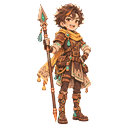
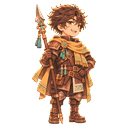
feat: トーリのユニットの絵を、肖像を見本にして作り直したものに置き換える（DES-NG-08）
128×128 の透過 PNG。台帳の行を作り直し（添付した画像と指示文を記録）。

Claude-Session: https://claude.ai/code/session_01Gwc8HGbd5fkwvE2Ki4XAgt

Changed region(s): [[0.25, 0.0, 0.75, 0.9688]]

diff --git a/data/alchemy/media/ASSETS.md b/data/alchemy/media/ASSETS.md
@@ -45,6 +45,6 @@
 | `art/portraits/aoi.png` | AI 生成（ChatGPT。元の 1254×1254 の画像を、512×512 の PNG に縮小しただけで、ほかの加工はしていない） | ChatGPT（GPT-6、チャットモード）、2026-11-13 | 「2D hand-drawn illustration, flat colors with at most two shading tones, clean medium-weight outlines, slightly desaturated palette with amber/copper and aqua-teal as the only vivid accents, fantasy ancient stone city setting, no text, no letters, no watermark. Bust-up portrait, 3/4 view, calm and gentle expression, soft warm rim light, plain flat light-gray background, square 1:1. A slender young woman around 20 years old, average height for her age, herbalist-alchemist wearing a long cream-colored coat with copper buckles, carrying a large leather backpack full of glass vials and copper tubes, an old handwritten recipe book tucked under the arm, geometric symbol embroidery on the sleeve, short practical hair, amber accent.」（全文。改行は空白に置き換えた。**絵柄のブロックは、この生成のあとに方針書で書き換えた**ので、今の方針書の指示文とは違う）。眼鏡・髪の編み込み・イヤリング・ペンダント・巻物・薬草などは、指示になく、生成側が足したもの。調合帳は、脇に挟まず手に持っている | ChatGPT（OpenAI）の利用規約とコンテンツポリシーを、開発者が確認した。**確認した条項の番号と版は、まだ記録していない（開発者が追記する）** | 2026-11-13 | 開発者 |
 | `art/units/aoi.png` | AI 生成（ChatGPT）。元の 1254×1254 の画像（背景は緑）を、緑の背景を透過にし、人物の範囲で切り出して正方形に整え、128×128 の PNG に縮小した。処理の概略: ① クロマキー（緑らしさ k = G − max(R,B) が 70 以下は不透明、170 以上は透明、その間は直線で α を決める）、② 緑かぶりの除去（α が 1 未満の画素と、透明に近い縁の帯（元の画像で 6 px 以内）では、G を max(R,B) に揃える。髪の橙・服の青緑・薬草の緑は G が max(R,B) を超えないか、縁の外なので変わらない）、③ α > 0.04 の範囲で切り出して 6% の余白を足し、足元をそろえて正方形にする、④ 乗算済みアルファで縮小（Lanczos）、⑤ 縮小のあと、半透明の画素の G を max(R,B) に揃え、それでも k が 8 以上残る α 64 以下の画素は α を 0 にする。仕上がりは、G ≧ 180 かつ G − max(R,B) ≧ 60 の半透明の画素が 0 個（前回は 38 個） | ChatGPT（GPT-6、チャットモード）、2026-11-13。加工は Python（Pillow・NumPy）の使い捨てのスクリプト | 「2D hand-drawn anime-style illustration, soft cel shading with subtle texture, clean thin-to-medium outlines, slightly desaturated palette with amber/copper and aqua-teal as the only vivid accents, fantasy ancient stone city setting, no text, no letters, no watermark. Full-body chibi character, 2.5 heads tall, front three-quarter view, standing pose, centered, entire body visible with margin on all sides, plain flat solid bright-green background (for cutting out), square 1:1. A slender young woman around 20 years old, herbalist-alchemist wearing a long cream-colored coat with copper buckles, a large leather backpack full of glass vials and copper tubes (looks big against her slim frame), short practical hair, amber accent.」（全文。改行は空白に置き換えた）。眼鏡・髪の編み込み・イヤリング・ペンダント・巻物・薬草・腰の小さな鞄・足元の革のブーツなどは、指示になく、生成側が足したもの。同じ人物の肖像（`art/portraits/aoi.png`）とは、別の生成 | ChatGPT（OpenAI）の利用規約とコンテンツポリシーを、開発者が確認した。**確認した条項の番号と版は、まだ記録していない（開発者が追記する）** | 2026-11-13 | 開発者 |
 | `art/units/dain.png` | AI 生成（ChatGPT）。元の 1254×1254 の画像（背景は緑）を、緑の背景を透過にし（クロマキー。縁の緑かぶりを除去）、人物の範囲で切り出して正方形に整え、128×128 の PNG に縮小した（ほかの全身の絵と同じ処理） | ChatGPT（GPT-6、チャットモード）、2026-11-13。加工は Python（Pillow・NumPy）の使い捨てのスクリプト | 「Use the first attached image as a style reference: match its art style, line weight, shading, color treatment and chibi proportions. The second attached image shows the same character in a portrait: keep exactly the same face, hair, outfit, colors and accessories, and redraw the character as a full-body chibi following the first image's proportions. 2D hand-drawn anime-style illustration, soft cel shading with subtle texture, clean thin-to-medium outlines, slightly desaturated palette with amber/copper and aqua-teal as the only vivid accents, fantasy ancient stone city setting, no text, no letters, no watermark. Full-body chibi character, 2.5 heads tall, front three-quarter view, standing pose, centered, entire body visible with margin on all sides, plain flat solid bright-green background (for cutting out), square 1:1. a broad-shouldered, sturdy man in his late 30s with a calm, dependable expression, short cropped hair and a light beard, wearing heavy iron-gray plate armor with an indigo cloth sash, copper rivets and buckles, holding a large tower shield and a spear.」（`docs/01_concept/new-game-prompts.md` の「ダイン — ユニットの絵」の組み立て済みの指示文の全文。改行は空白に置き換えた。生成のとき、①アオイの全身の絵（絵柄の見本）、②ダインの肖像 `art/portraits/dain.png`（人物の見本）を添付した。**生成時に指示文を変えていないかは、開発者に確認中**）。頬の傷・胸の花の留め具と房飾り・盾の街と柱廊の模様・鎧の肩の模様・マントの裾の模様などは、指示になく、生成側が足したもの（肖像から引き継いだ）。先に置いていた、肖像を見本にしない版の全身の絵は、この絵に置き換えた | ChatGPT（OpenAI）の利用規約とコンテンツポリシーを、開発者が確認した（アオイの絵と同じ）。**確認した条項の番号と版は、まだ記録していない（開発者が追記する）** | 2026-11-13 | 開発者 |
-| `art/units/tori.png` | AI 生成（ChatGPT）。元の 1254×1254 の画像（背景は緑）を、緑の背景を透過にし（クロマキー。縁の緑かぶりを除去）、人物の範囲で切り出して正方形に整え、128×128 の PNG に縮小した（アオイ・ダインの全身の絵と同じ処理） | ChatGPT（GPT-6、チャットモード）、2026-11-13。加工は Python（Pillow・NumPy）の使い捨てのスクリプト | 「Use the attached image as a style reference: match its art style, line weight, shading, color treatment and chibi proportions, but draw a different character as described below. 2D hand-drawn anime-style illustration, soft cel shading with subtle texture, clean thin-to-medium outlines, slightly desaturated palette with amber/copper and aqua-teal as the only vivid accents, fantasy ancient stone city setting, no text, no letters, no watermark. Full-body chibi character, 2.5 heads tall, front three-quarter view, standing pose, centered, entire body visible with margin on all sides, plain flat solid bright-green background (for cutting out), square 1:1. a lean, tall young man around 19 with short messy hair and an energetic expression, wearing brown leather armor with a muted ochre-yellow scarf, copper buckles, holding a long spear taller than himself.」（`docs/01_concept/new-game-prompts.md` の「トーリ — ユニットの絵」の組み立て済みの指示文の全文。改行は空白に置き換えた。生成のとき、参照画像を添付した。**生成時に指示文を変えていないかは、開発者に確認中**）。笑った顔・頬の絆創膏・髪の橙のメッシュ・房飾り・腰の鞄と小瓶・スカーフと腰布の街の模様・革のブーツなどは、指示になく、生成側が足したもの | ChatGPT（OpenAI）の利用規約とコンテンツポリシーを、開発者が確認した（アオイの絵と同じ）。**確認した条項の番号と版は、まだ記録していない（開発者が追記する）** | 2026-11-13 | 開発者 |
+| `art/units/tori.png` | AI 生成（ChatGPT）。元の 1254×1254 の画像（背景は緑）を、緑の背景を透過にし（クロマキー。縁の緑かぶりを除去）、人物の範囲で切り出して正方形に整え、128×128 の PNG に縮小した（ほかの全身の絵と同じ処理） | ChatGPT（GPT-6、チャットモード）、2026-11-13。加工は Python（Pillow・NumPy）の使い捨てのスクリプト | 「Use the first attached image as a style reference: match its art style, line weight, shading, color treatment and chibi proportions. The second attached image shows the same character in a portrait: keep exactly the same face, hair, outfit, colors and accessories, and redraw the character as a full-body chibi following the first image's proportions. 2D hand-drawn anime-style illustration, soft cel shading with subtle texture, clean thin-to-medium outlines, slightly desaturated palette with amber/copper and aqua-teal as the only vivid accents, fantasy ancient stone city setting, no text, no letters, no watermark. Full-body chibi character, 2.5 heads tall, front three-quarter view, standing pose, centered, entire body visible with margin on all sides, plain flat solid bright-green background (for cutting out), square 1:1. a lean, tall young man around 19 with short messy hair and an energetic expression, wearing brown leather armor with a muted ochre-yellow scarf, copper buckles, holding a long spear taller than himself.」（`docs/01_concept/new-game-prompts.md` の「トーリ — ユニットの絵」の組み立て済みの指示文の全文。改行は空白に置き換えた。生成のとき、①アオイの全身の絵（絵柄の見本）、②トーリの肖像 `art/portraits/tori.png`（人物の見本）を添付した。**生成時に指示文を変えていないかは、開発者に確認中**）。笑った顔・頬の傷・髪の橙のメッシュ・胸の花の留め具と房飾り・腰の小瓶と鞄・マントの模様などは、指示になく、生成側が足したもの（肖像から引き継いだ）。頬の傷と胸の花の留め具は、ダインとも共通する。先に置いていた、肖像を見本にしない版の全身の絵は、この絵に置き換えた | ChatGPT（OpenAI）の利用規約とコンテンツポリシーを、開発者が確認した（アオイの絵と同じ）。**確認した条項の番号と版は、まだ記録していない（開発者が追記する）** | 2026-11-13 | 開発者 |
 | `art/portraits/dain.png` | AI 生成（ChatGPT）。元の 1254×1254 の画像を、512×512 の PNG に縮小しただけで、ほかの加工はしていない | ChatGPT（GPT-6、チャットモード）、2026-11-13 | 「Use the attached image as a style reference: match its art style, line weight, shading and color treatment, but draw a different character as described below. 2D hand-drawn anime-style illustration, soft cel shading with subtle texture, clean thin-to-medium outlines, slightly desaturated palette with amber/copper and aqua-teal as the only vivid accents, fantasy ancient stone city setting, no text, no letters, no watermark. Bust-up portrait, 3/4 view, calm expression, soft warm rim light, plain flat light-gray background, square 1:1. a broad-shouldered, sturdy man in his late 30s with a calm, dependable expression, short cropped hair and a light beard, wearing heavy iron-gray plate armor with an indigo cloth sash, copper rivets and buckles, holding a large tower shield and a spear.」（`docs/01_concept/new-game-prompts.md` の「ダイン — 肖像」の組み立て済みの指示文の全文。改行は空白に置き換えた。生成のとき、参照画像はアオイの肖像だけを添付した。**生成時に指示文を変えていないかは、開発者に確認中**）。頬の傷・胸の花の留め具と房飾り・盾の街と柱廊の模様・鎧の肩の模様などは、指示になく、生成側が足したもの | ChatGPT（OpenAI）の利用規約とコンテンツポリシーを、開発者が確認した（アオイの絵と同じ）。**確認した条項の番号と版は、まだ記録していない（開発者が追記する）** | 2026-11-13 | 開発者 |
 | `art/portraits/tori.png` | AI 生成（ChatGPT）。元の 1254×1254 の画像を、512×512 の PNG に縮小しただけで、ほかの加工はしていない | ChatGPT（GPT-6、チャットモード）、2026-11-13 | 「Use the attached image as a style reference: match its art style, line weight, shading and color treatment, but draw a different character as described below. 2D hand-drawn anime-style illustration, soft cel shading with subtle texture, clean thin-to-medium outlines, slightly desaturated palette with amber/copper and aqua-teal as the only vivid accents, fantasy ancient stone city setting, no text, no letters, no watermark. Bust-up portrait, 3/4 view, calm expression, soft warm rim light, plain flat light-gray background, square 1:1. a lean, tall young man around 19 with short messy hair and an energetic expression, wearing brown leather armor with a muted ochre-yellow scarf, copper buckles, holding a long spear taller than himself.」（`docs/01_concept/new-game-prompts.md` の「トーリ — 肖像」の組み立て済みの指示文の全文。改行は空白に置き換えた。生成のとき、参照画像はアオイの肖像だけを添付した。**生成時に指示文を変えていないかは、開発者に確認中**）。笑った顔・頬の傷・髪の橙のメッシュ・胸の花の留め具と房飾り・スカーフの幾何学の模様と房・小瓶（腰）などは、指示になく、生成側が足したもの。胸の花の留め具と房飾り、頬の傷は、ダインの肖像とも共通する | ChatGPT（OpenAI）の利用規約とコンテンツポリシーを、開発者が確認した（アオイの絵と同じ）。**確認した条項の番号と版は、まだ記録していない（開発者が追記する）** | 2026-11-13 | 開発者 |
